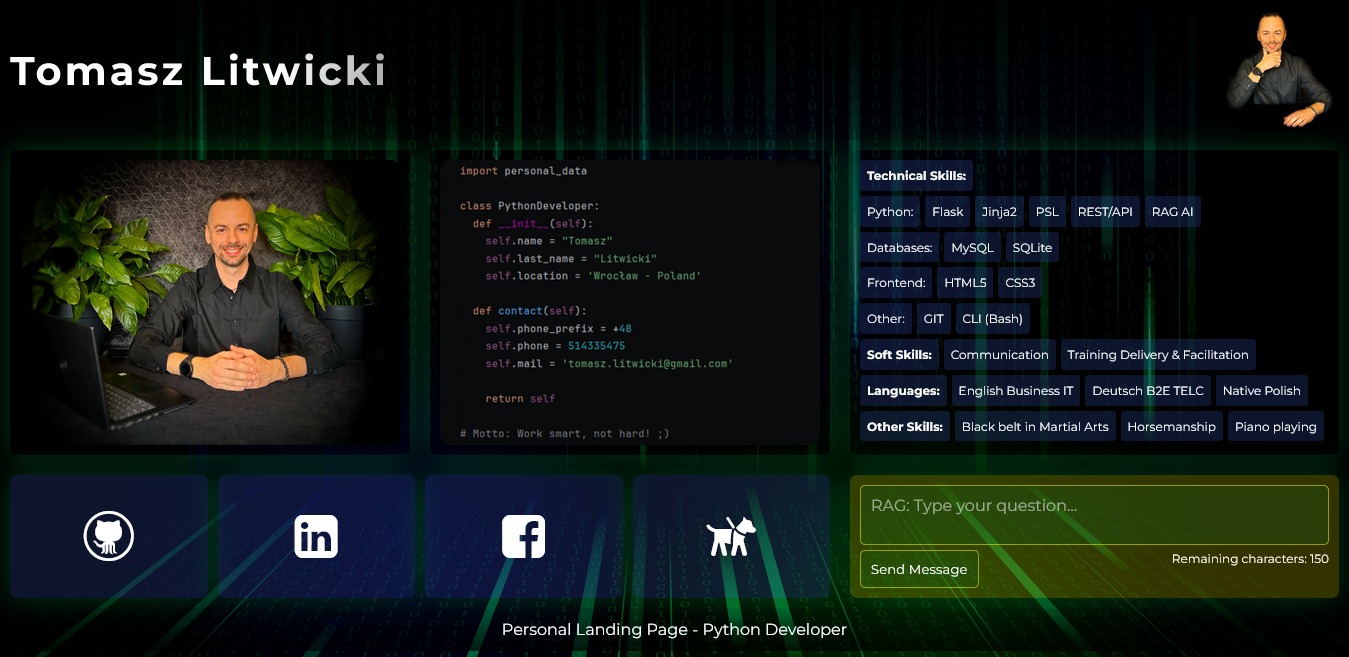
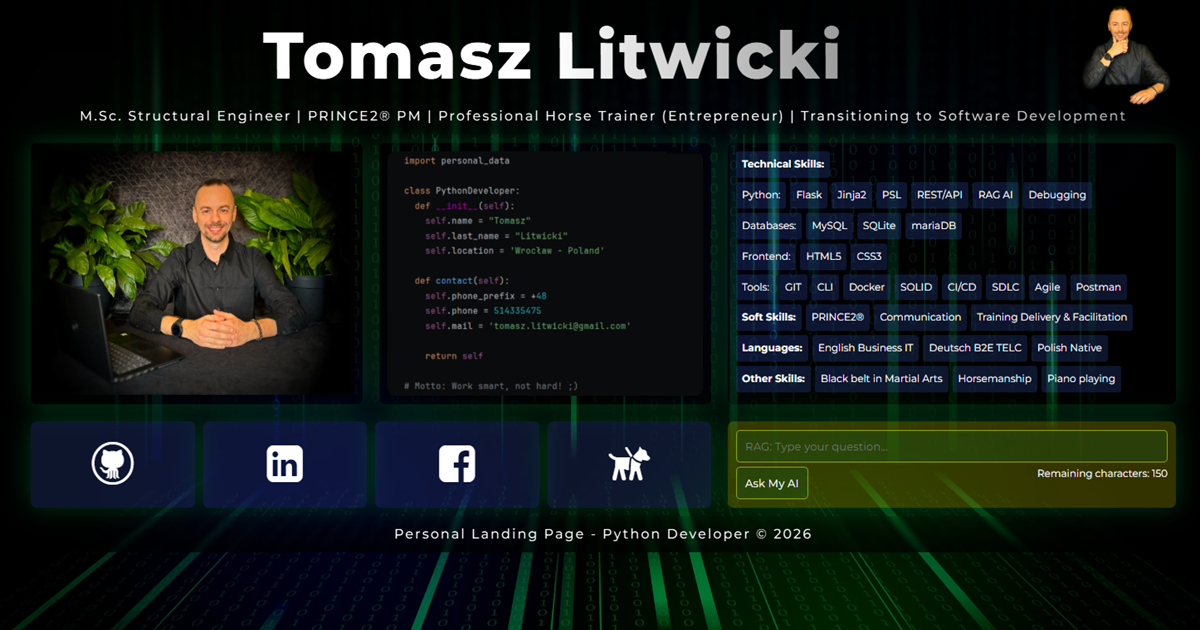
Final version

diff --git a/templates/index.html b/templates/index.html
@@ -16,7 +16,7 @@
   <meta property="og:title" content="Tomasz Litwicki | Python Developer">
   <meta property="og:type" content="website">
   <meta property="og:url" content="https://tomaszlitwicki.pythonanywhere.com/">
-  <meta property="og:image" content="https://tomaszlitwicki.pythonanywhere.com/img/Screenshot.png">
+  <meta property="og:image" content="https://tomaszlitwicki.pythonanywhere.com/static/img/Screenshot.png">
   <meta property="og:image:alt" content="Tomasz Litwicki - Python Developer Portfolio">
   <meta property="og:description" content="Explore my IT projects, technical skills, and experience in RAG AI and Python development.">
 
@@ -71,7 +71,7 @@
             <div class="skill">CLI</div>
             <div class="skill">Docker</div>
             <div class="skill">SOLID</div>
-            <div class="skill">CL/CI</div>
+            <div class="skill">CI/CD</div>
             <div class="skill">SDLC</div>
             <div class="skill">Agile</div>
             <div class="skill">Postman</div>
@@ -120,7 +120,7 @@
           <div id="counter">Remaining characters: <span>150</span> </div>
         </div>
       </form>
-      <span class="tooltip"><b><u>This feature is available in Polish only</u></b><br> AI w oparciu o technologię RAG, czyli &quot;Sztuczna Inteligencja&quot; odpowie na Twoje pytanie w oparciu o przygotowaną przeze mnie bazę informacji. Możesz zapytać o moją wiedzę z dziedziny IT, metodykę jej zdobywania, sposób myślenia programistycznego, lub wykonane projekty. Np: 'Z jakich techonologii korzystał Tomasz w swym głównym projekcie?'.</span>
+      <span class="tooltip"><b><u>This feature is available in Polish only</u></b><br> AI w oparciu o technologię RAG, czyli &quot;Sztuczna Inteligencja&quot; odpowie na Twoje pytanie w oparciu o przygotowaną przeze mnie bazę informacji. Możesz zapytać o moją wiedzę z dziedziny IT, metodykę jej zdobywania, sposób myślenia programistycznego, lub wykonane projekty. Np: 'Z jakich technologii korzystał Tomasz w swym głównym projekcie?'.</span>
     </div>
     {% if question %}
       <div class="rag" id="question"><u><b>{{ titles[0] }}</b></u>{{ question }}</div>

diff --git a/static/css/style.css b/static/css/style.css
@@ -350,7 +350,7 @@ main > *:not(#links_row):hover, .links:hover {
   font-family: 'Montserrat', sans-serif;
   font-size: 0.75em;
   letter-spacing: 2px;
-  font-weight: 100;
+  font-weight: 200;
   white-space: normal;
   opacity: 0;
   pointer-events: none;

diff --git a/services/llm.py b/services/llm.py
@@ -15,9 +15,9 @@ SYSTEM_PROMPT = """
         Do not exaggerate seniority, commercial experience, or project scope.
         If the context is insufficient, say that clearly.
         Keep the answer factual, concise, and trustworthy.
-        Stick to the questions, but pay particular attention to soft skills.
-        Demonstrate how experience to date has helped develop unique soft skills that are useful in IT
-        Use the same language as the user's question.
+        Stick to the questions, but if it’s relevant, mention  soft skills.
+        Where relevant, explain how previous experience has helped develop unique soft skills that are useful in the IT sector.
+        If the question is in a language other than Polish, please translate it into Polish and paste the translated version here.
         Don’t ask any questions, and don’t suggest continuing the conversation
     """
 
@@ -79,7 +79,7 @@ if __name__ == "__main__":
     # question = "Jaki jest główny projekt Tomasza"
     # question = "Dlaczego kończy pracę na Rancho?"
     # question = "Jak dotychczasowa praca na Ranczo Rajczyn będzie miała wpływ na pracę w IT?"
-    question = "Jakie wykształcenie ma Tomasz i jaki to ma wpływa na umiejętności programowania?"
+    question = "Czy Tomek jeździ konno?"
 
     manifest = load_manifest()
     chunks = load_all_chunks()

diff --git a/services/retriever.py b/services/retriever.py
@@ -1,6 +1,5 @@
 import re
 from typing import Any
-import unicodedata
 from services.loader import load_manifest, load_all_chunks
 
 
@@ -116,7 +115,7 @@ def score_chunk(question: str, chunk: dict, preferred_sources: list[str], prefer
     return score
 
 
-def retrieve_chunks (question: str, chunks: list[dict], manifest: dict, top_k = 3, min_score: int = 15) -> list[dict]:
+def retrieve_chunks (question: str, chunks: list[dict], manifest: dict, top_k = 3, min_score: int = 12) -> list[dict]:
     query_type = detect_query_type(question, manifest)
     preferred_source = get_preferred_sources(query_type, manifest)
     preferred_categories = get_preferred_categories(query_type, manifest)
@@ -170,6 +169,7 @@ if __name__ == '__main__':
     ask = "Jaki wpływa praca na Ranczo Rajczyn będzie miała na pracę w IT?"
     ask = "Jakie umiejętności posiada TOmasz?"
     ask = "Jakie wykształcenie ma Tomasz i jaki to ma wpływa na umiejętności programowania?"
+    ask = "Czy TOmasz gra na pianinie"
     manifest = load_manifest()
     chunks = load_all_chunks()
 

diff --git a/chunks/08_background_selected_chunk.md b/chunks/08_background_selected_chunk.md
@@ -7,16 +7,31 @@ audience: recruiter
 seniority: junior
 last_updated: 2026-03-18
 tags:
-  - background-selected
-  - professional-background
-  - transferable-context
+  - zmiana
+  - przyczyn
   - horse-trainer
-  - instructor
-  - ranch
-  - domain-knowledge
-  - communication
-  - discipline
-  - self-management
+  - instruktor
+  - rancz
+  - wiedza
+  - komunika
+  - dyscypli
+  - zarzadz
+  - tło
+  - profesjo
+  - trener
+  - kon
+  - psy
+  - psa
+  - rajcz
+  - pas
+  - czarn
+  - black
+  - belt
+  - aikid
+  - mistrz
+  - sztuk
+  - pianin
+  - moto
 ---
 
 # background_selected
@@ -165,3 +180,11 @@ Zmysł wizualny i dbałość o detal: Uzupełnieniem komunikacji była umiejętn
 Przejście z inżynierii do własnego biznesu: Budowa Rancza od podstaw była świadomą decyzją o odejściu od pracy korporacyjnej na rzecz pełnej samodzielności operacyjnej. Pokazuje to zdolność Tomasza do planowania złożonych projektów (od logistyki po budowanie relacji z klientami) i doprowadzania ich do sukcesu rynkowego.
 
 To doświadczenie stanowi bezpośrednią genezę projektu HorseOwner MVP i jest dowodem na to, że Tomasz potrafi łączyć głęboką wiedzę domenową z profesjonalną komunikacją i techniczną rzetelnością.
+
+Tomasz ma dwa własne konie, świetnie jeździ konno i w niemalże mistycznie intuicyjny sposób potrafi się porozumieć z każdym koniem, nawet najbardziej krnąbrnym.
+
+Dodatkowe hobby Tomasza to motocykl, ma własny, piękny, ciężki chopper Yamaha Road Star o pojemności 1700 cm3 co, jest doskonałym odpoczynkiem od realizowanych projektów zachowując zdrowy styl równowagi work-life-balance.
+
+Wieczorami lubi grać na pianinie jazz i blues. Jest to zajęcie, które wspomaga tworzenie i myślenie twórcze.
+
+Największym oczkiem w głowie Tomasza są jego dwa psy rasy Border Collie z którymi spędza większość czasu.

diff --git a/chunks/00_manifest_index.md b/chunks/00_manifest_index.md
@@ -71,6 +71,7 @@ query_routing:
     - 09_education_and_certifications_chunk
     - 04_learning_path_chunk
     - 05_career_transition_chunk
+    - 08_background_selected_chunk
 
 intent_categories:
   technical:
@@ -122,9 +123,11 @@ default_bundles:
     - 05_career_transition_chunk
     - 08_background_selected_chunk
     - 07_goals_and_direction_chunk
+    - 09_education_and_certifications
   learning_narrative:
     - 09_education_and_certifications
     - 04_learning_path_chunk
+    - 08_background_selected_chunk
     - 07_goals_and_direction_chunk
 
 intent_keywords:
@@ -210,11 +213,11 @@ intent_keywords:
     - doświadcz
     - ranczo
     - soft
-    - koni
-    - jeździectwo
+    - kon
+    - jezdzi
     - western
     - natural
-    - szkolenia
+    - szkoleni
     - aikido
     - spadan
     - psy
@@ -222,13 +225,22 @@ intent_keywords:
     - psa
     - warsztat
     - rajczyn
+    - spad
+    - tren
+    - gra
+    - pianion
+    - muzy
+    - moto
+    - hobb
+    - pasj
+    - zwierz
   education:
     - studia
     - uczelnia
     - dyplom
     - magister
     - inżynier
-    - politechnika
+    - politechnik
     - uniwersytet
     - certyfikat
     - kurs
@@ -237,6 +249,15 @@ intent_keywords:
     - prince
     - aikido
     - wykszt
+    - jezyk
+    - pas
+    - czarny
+    - stopien
+    - topni
+    - mistrzows
+    - black
+    - belt
+    - sensei
 
 ---
 

diff --git a/chunks/06_work_style_chunk.md b/chunks/06_work_style_chunk.md
@@ -7,16 +7,26 @@ audience: recruiter
 seniority: junior
 last_updated: 2026-03-18
 tags:
-  - work-style
+  - prac
+  - styl
   - debugging
   - mvp
-  - iterative-development
-  - documentation
-  - planning
-  - self-learning
-  - problem-solving
-  - communication
+  - itera
+  - develo
+  - kodo
+  - pisa
+  - dokumen
+  - plano
+  - wlasn
+  - nauk
+  - problem
+  - rozw
+  - komuni
   - ownership
+  - wlasc
+  - przed
+  - dzialal
+  - firm
 ---
 
 # work_style

diff --git a/chunks/07_goals_and_direction_chunk.md b/chunks/07_goals_and_direction_chunk.md
@@ -7,16 +7,20 @@ audience: recruiter
 seniority: junior
 last_updated: 2026-03-18
 tags:
-  - goals-and-direction
-  - junior-python-developer
+  - cel
+  - kierun
+  - junior
+  - python
+  - develop
+  - program
   - backend
   - ai
   - llm
   - rag
-  - portfolio
-  - growth-direction
-  - remote-work
-  - product-mindset
+  - portfoli
+  - rozw
+  - zdaln
+  - mysle
 ---
 
 # goals_and_direction

diff --git a/chunks/05_career_transition_chunk.md b/chunks/05_career_transition_chunk.md
@@ -9,12 +9,19 @@ last_updated: 2026-03-18
 tags:
   - career-transition
   - junior-python-developer
-  - transferable-skills
-  - self-learning
-  - discipline
-  - problem-solving
-  - horse-trainer
-  - domain-knowledge
+  - transf
+  - skil
+  - umieje
+  - wlasn
+  - nauk
+  - dyscypli
+  - problem
+  - rozwi
+  - horse
+  - kon
+  - trener
+  - szkol
+  - wiedz
   - portfolio
 ---
 

diff --git a/chunks/09_education_and_certifications_chunk.md b/chunks/09_education_and_certifications_chunk.md
@@ -7,15 +7,20 @@ audience: recruiter
 seniority: junior
 last_updated: 2026-04-03
 tags:
-  - education
-  - university
-  - master-degree
-  - prince2
+  - uniwersy
+  - master
+  - prince
   - python
   - ai
   - languages
-  - soft-skills
+  - soft
+  - skil
+  - miekk
   - aikido
+  - sztuk
+  - magist
+  - inzy
+  - walk
   - wykszt
   - tytul
   - uczeln

diff --git a/chunks/02_projects_chunk.md b/chunks/02_projects_chunk.md
@@ -7,8 +7,10 @@ audience: recruiter
 seniority: junior
 last_updated: 2026-03-18
 tags:
-  - horseowner
-  - mission-aipossible
+  - horse
+  - owner
+  - mission
+  - aipossible
   - flask
   - sqlite
   - openai-api

diff --git a/chunks/04_learning_path_chunk.md b/chunks/04_learning_path_chunk.md
@@ -22,6 +22,9 @@ tags:
   - llm
   - rag
   - obsidian
+  - nauka
+  - uczen
+  - uczn
 ---
 
 # learning_path
